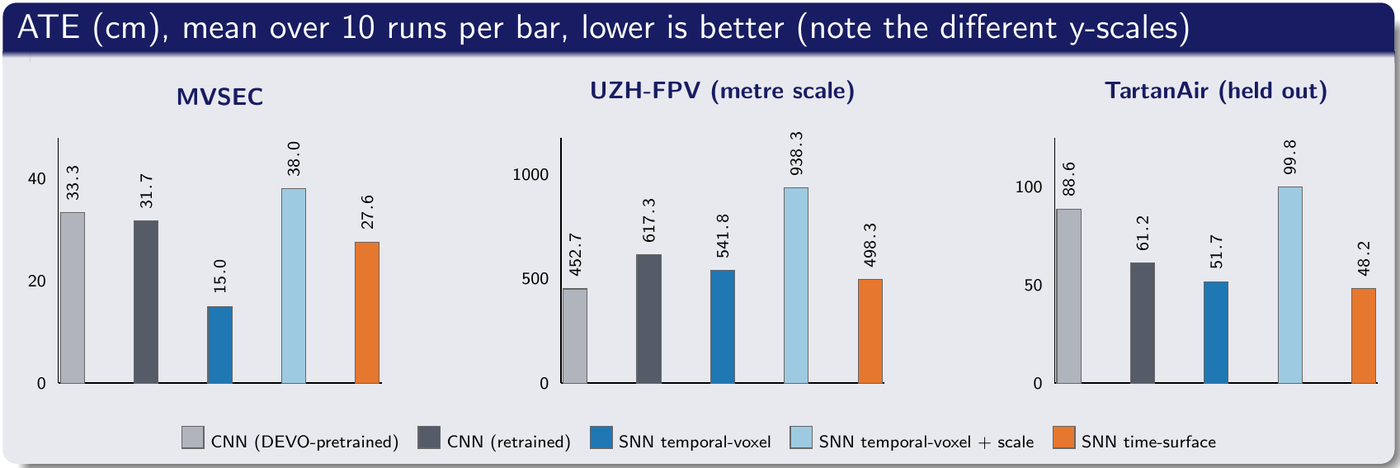
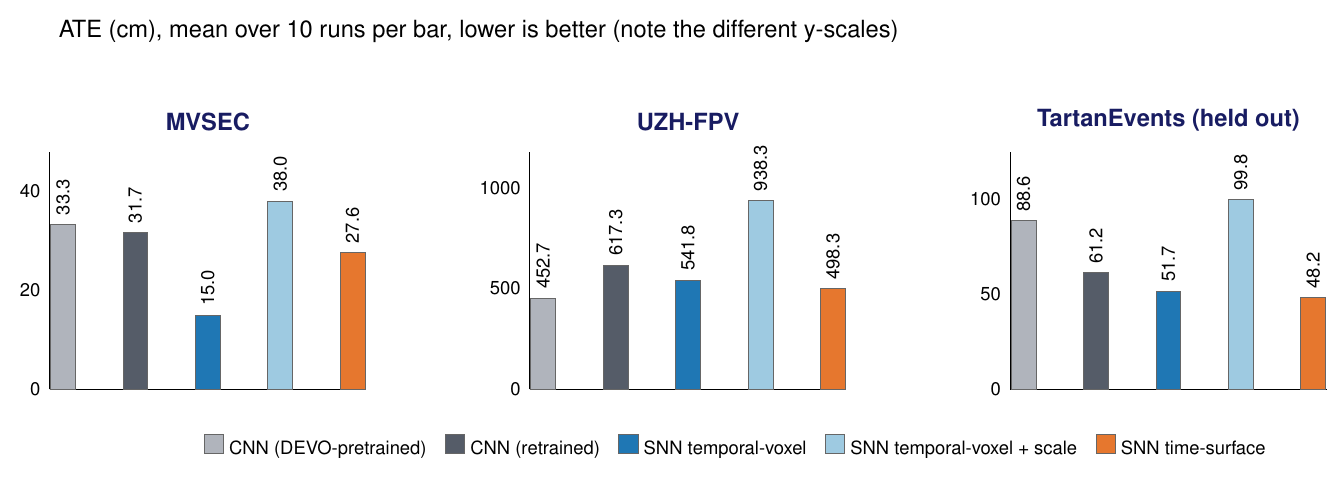
Use TartanEvents for the event data; redraw results chart
- Held-out evaluation sequences and training data are called TartanEvents
  (the event data); TartanAir only names the RGB source
- Results chart redrawn as vector source (label "TartanEvents (held out)")
- Research CV updated accordingly

diff --git a/cv/Research_CV.tex b/cv/Research_CV.tex
@@ -54,7 +54,7 @@ Bachelor's thesis: self-balancing object-tracking robot (PID-controlled inverted
       neural networks trained with surrogate gradients; compared two temporal encodings (replayed voxel grid, time-surface
       frames) against CNN baselines in 150 visual-odometry runs.
 \item On MVSEC, the spiking selector achieved about $2\times$ lower absolute trajectory error and $10\times$ smaller spread
-      than the CNN baselines; on held-out TartanAir both viable spiking variants beat both CNNs.
+      than the CNN baselines; on held-out TartanEvents sequences both viable spiking variants beat both CNNs.
 \item Showed with a same-data CNN control that the remaining gap on fast drone-racing motion (UZH-FPV) comes from the
       training data, not from spiking computation.
 \item Generated and publicly released \textbf{TartanEvents}, a 1.3\,TB simulated event-camera training dataset.
